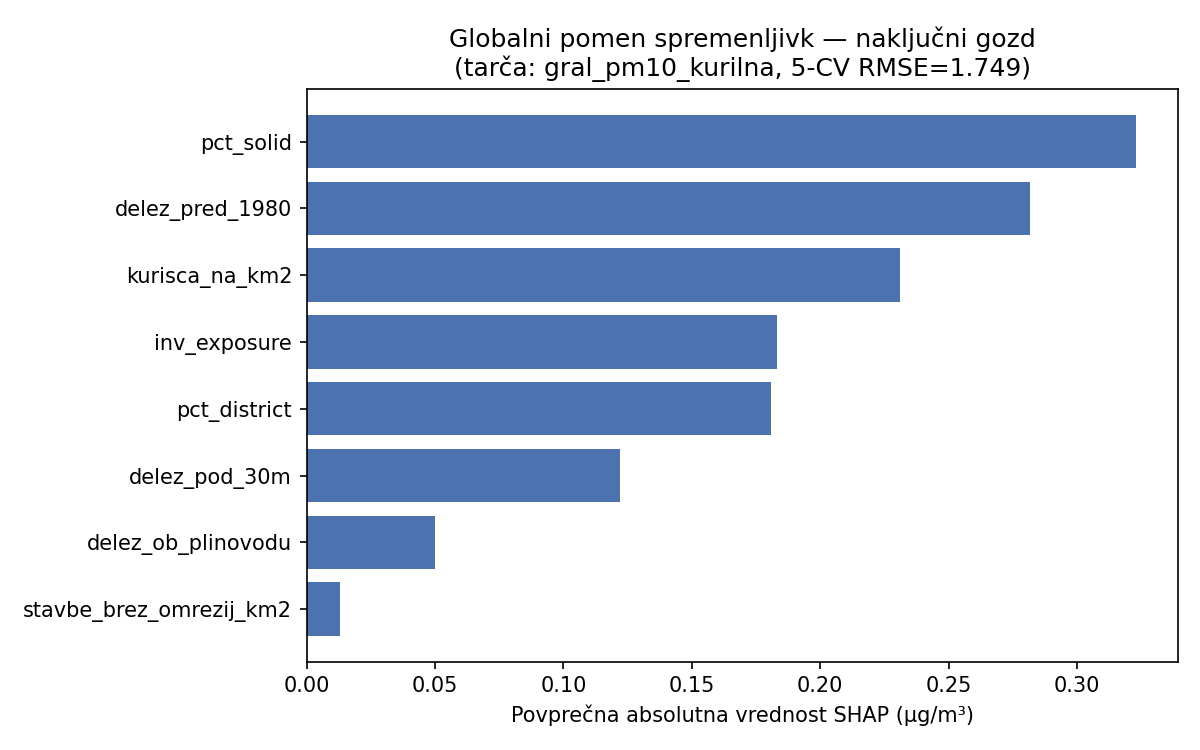
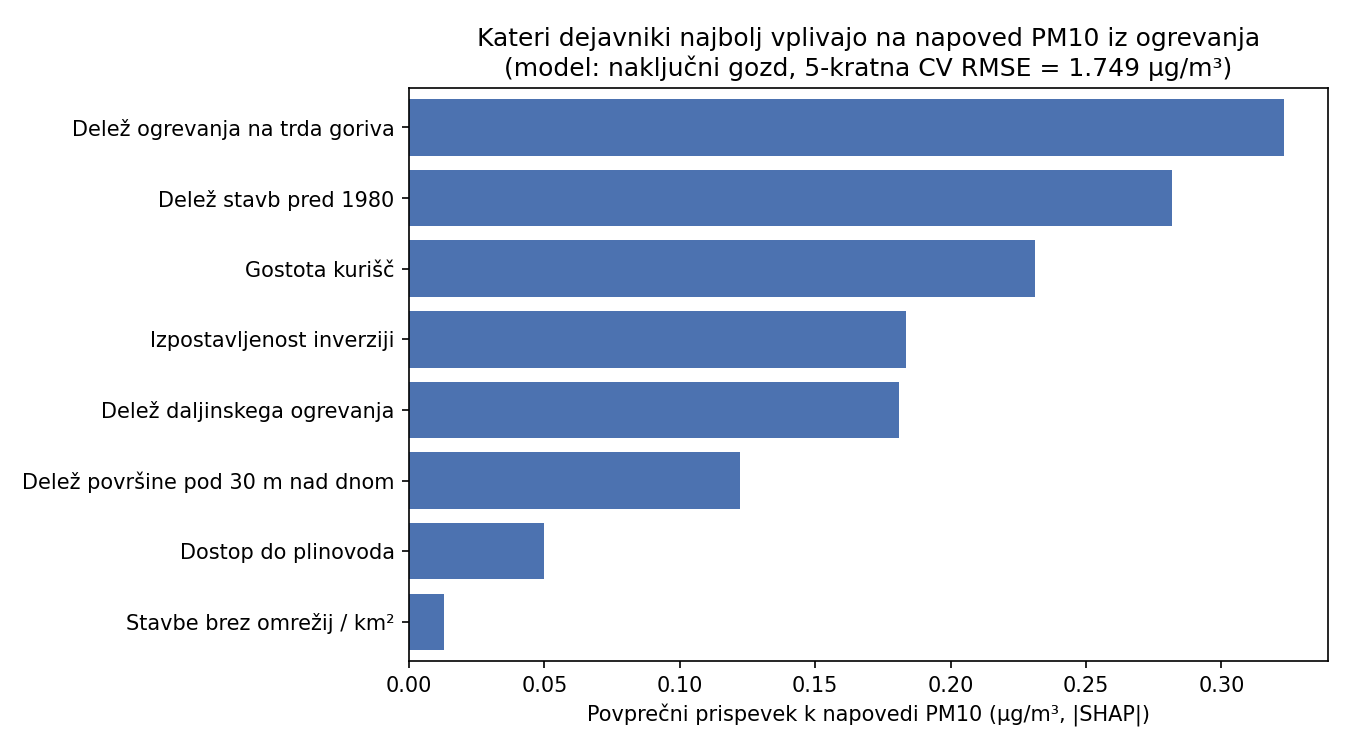
Use human-readable Slovenian labels on feature-importance charts
Introduce FEATURE_LABELS_SL dict and apply it to Charts 3 and 5 so axes
read 'Delez ogrevanja na trda goriva' instead of 'pct_solid', etc.
Also widen Chart 5 (11->13 in) and refresh titles/colourbar text. No
change to the trained model, exported artifacts, or feature_metadata.json.

Changed region(s): [[0.0, 0.0307, 0.9867, 0.9813], [0.8633, 0.8587, 0.925, 0.92]]

diff --git a/model_faktorji_onesnazenosti_cs.py b/model_faktorji_onesnazenosti_cs.py
@@ -186,6 +186,20 @@ FEATURES = [
 cs["stavbe_brez_omrezij_km2"] = cs["stavbe_brez_omrezij"] / cs["povrsina_km2"].replace(0, np.nan)
 FEATURES.append("stavbe_brez_omrezij_km2")
 
+# Human-readable Slovenian labels, used by the matplotlib charts below and
+# mirrored in the frontend-facing feature_metadata.json export further down.
+FEATURE_LABELS_SL = {
+    "pct_solid":               "Delež ogrevanja na trda goriva",
+    "pct_gas":                 "Delež ogrevanja na plin",
+    "pct_district":            "Delež daljinskega ogrevanja",
+    "kurisca_na_km2":          "Gostota kurišč",
+    "delez_pred_1980":         "Delež stavb pred 1980",
+    "inv_exposure":            "Izpostavljenost inverziji",
+    "delez_ob_plinovodu":      "Dostop do plinovoda",
+    "delez_pod_30m":           "Delež površine pod 30 m nad dnom",
+    "stavbe_brez_omrezij_km2": "Stavbe brez omrežij / km²",
+}
+
 TARGET = "gral_pm10_kurilna"
 
 ml_df = cs[FEATURES + [TARGET, "cs_ime", "gral_quality_flag"]].dropna(subset=FEATURES + [TARGET])
@@ -397,11 +411,16 @@ fig.savefig(CHARTS / "02_heating_type_breakdown.png", dpi=150)
 plt.close(fig)
 
 # --- Chart 3: ML feature importance ---
-fig, ax = plt.subplots(figsize=(8, 5))
+fig, ax = plt.subplots(figsize=(9, 5))
 imp = importance_df.sort_values("mean_abs_shap")
-ax.barh(imp["feature"], imp["mean_abs_shap"], color="#4c72b0")
-ax.set_xlabel("Povprečna absolutna vrednost SHAP (µg/m³)")
-ax.set_title(f"Globalni pomen spremenljivk — naključni gozd\n(tarča: gral_pm10_kurilna, 5-CV RMSE={cv_rmse:.3f})")
+labels = imp["feature"].map(FEATURE_LABELS_SL).fillna(imp["feature"])
+ax.barh(labels, imp["mean_abs_shap"], color="#4c72b0")
+ax.set_xlabel("Povprečni prispevek k napovedi PM10 (µg/m³, |SHAP|)")
+ax.set_title(
+    "Kateri dejavniki najbolj vplivajo na napoved PM10 iz ogrevanja\n"
+    f"(model: naključni gozd, 5-kratna CV RMSE = {cv_rmse:.3f} µg/m³)"
+)
+ax.margins(y=0.02)
 fig.tight_layout()
 fig.savefig(CHARTS / "03_ml_feature_importance.png", dpi=150)
 plt.close(fig)
@@ -463,12 +482,13 @@ except Exception as exc:
     print(f"  Map chart skipped: {exc}")
 
 # --- Chart 5: SHAP per CS (dot plot) ---
-fig, ax = plt.subplots(figsize=(11, 7))
+fig, ax = plt.subplots(figsize=(13, 7))
 shap_plot = shap_df.copy()
 
-# Sort features by mean abs SHAP
+# Sort features by mean abs SHAP, then relabel with human-readable Slovenian names
 feat_order = importance_df.sort_values("mean_abs_shap", ascending=True)["feature"].tolist()
 shap_plot = shap_plot[feat_order]
+shap_plot = shap_plot.rename(columns=FEATURE_LABELS_SL)
 
 # Heatmap-style: rows = CS, cols = features, values = SHAP
 sns.heatmap(
@@ -479,11 +499,14 @@ sns.heatmap(
     annot=True,
     fmt=".2f",
     linewidths=0.4,
-    cbar_kws={"label": "SHAP vrednost (µg/m³)"},
+    cbar_kws={"label": "Prispevek (µg/m³, SHAP)"},
     annot_kws={"size": 7},
 )
-ax.set_title("SHAP vrednosti po četrtnih skupnostih — kateri dejavniki povečajo/zmanjšajo PM10 kurišč", fontsize=10)
-ax.set_xlabel("Spremenljivke")
+ax.set_title(
+    "Prispevek posameznih dejavnikov k napovedi PM10 iz ogrevanja — po četrtnih skupnostih",
+    fontsize=10,
+)
+ax.set_xlabel("Dejavnik")
 ax.set_ylabel("Četrtna skupnost")
 plt.xticks(rotation=30, ha="right", fontsize=8)
 plt.yticks(fontsize=8)
